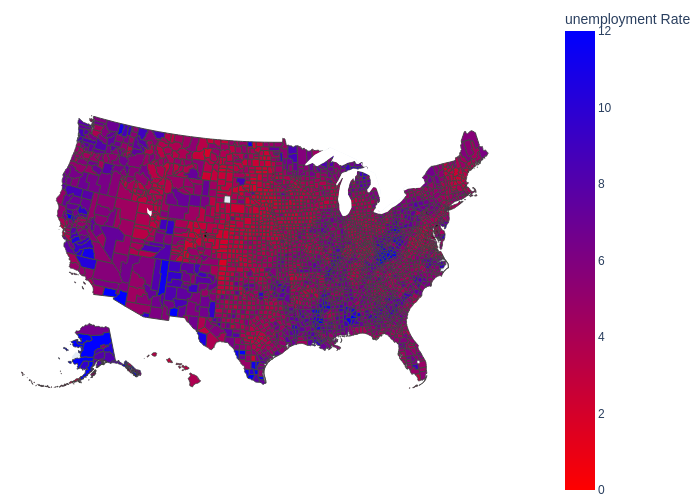
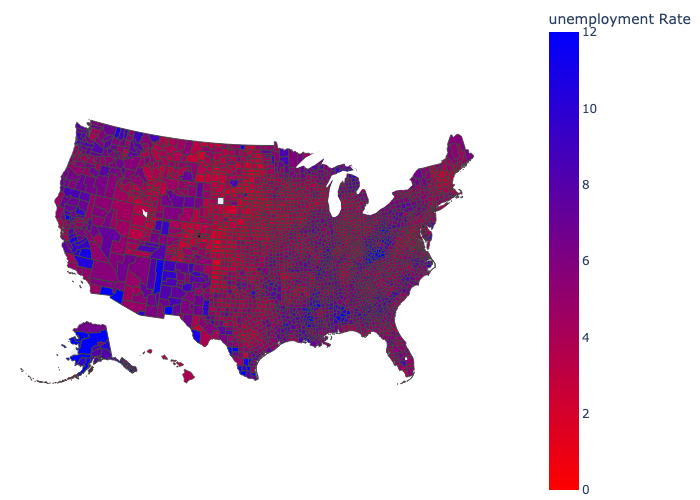
render_map

diff --git a/maps/render_map.py b/maps/render_map.py
@@ -1,0 +1,24 @@
+import requests
+import plotly.express as px
+
+# Get Counties
+response=requests.get('https://raw.githubusercontent.com/plotly/datasets/master/geojson-counties-fips.json')
+if response.status_code!=200:
+    print('API response was not OK')
+    exit()
+
+counties=response.json()
+response.close()
+
+# Exported
+def render_map(
+    filename,
+    fips_codes #dataframe of fips codes and their corresponding party [0-1]
+):
+    # Plot Data
+    fig=px.choropleth(fips_codes, geojson=counties, locations='fips', color='party', color_continuous_scale=['#ff0000', '#0000ff'], range_color=(0, 1), scope='usa', labels={'party': 'Party'})
+
+    fig.update_layout(margin={'r': 0, 't': 0, 'l': 0, 'b': 0})
+    # fig.show()
+    fig.write_image(f'./predicted/{filename}.png') #export as PNG into predicted folder
+

diff --git a/maps/render_unemployment_map_test.py b/maps/render_unemployment_map_test.py
@@ -1,0 +1,7 @@
+from render_map import render_map
+import pandas as pd
+
+df=pd.read_csv('https://raw.githubusercontent.com/plotly/datasets/master/fips-unemp-16.csv', dtype={'fips': str, 'unemp': float})
+df.rename(columns={ 'unemp': 'party' }, inplace=True)
+df.party/=15 #make from 0-1
+render_map('unemployment', df)
